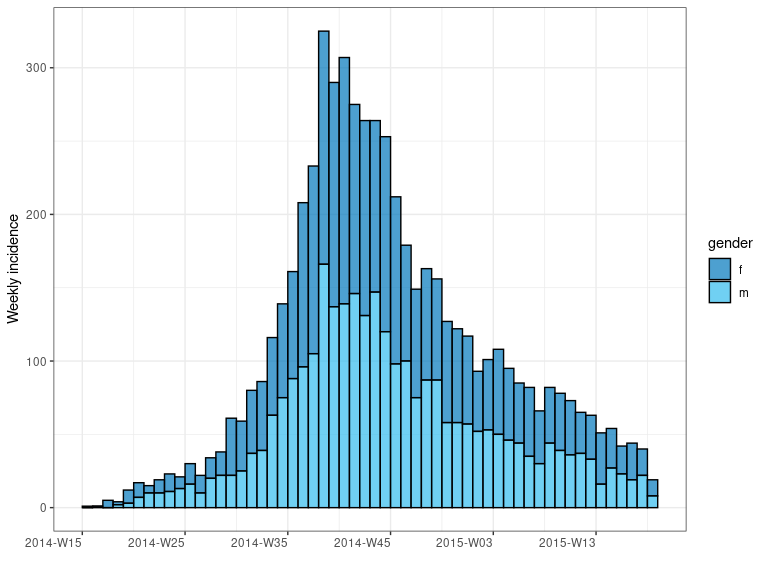
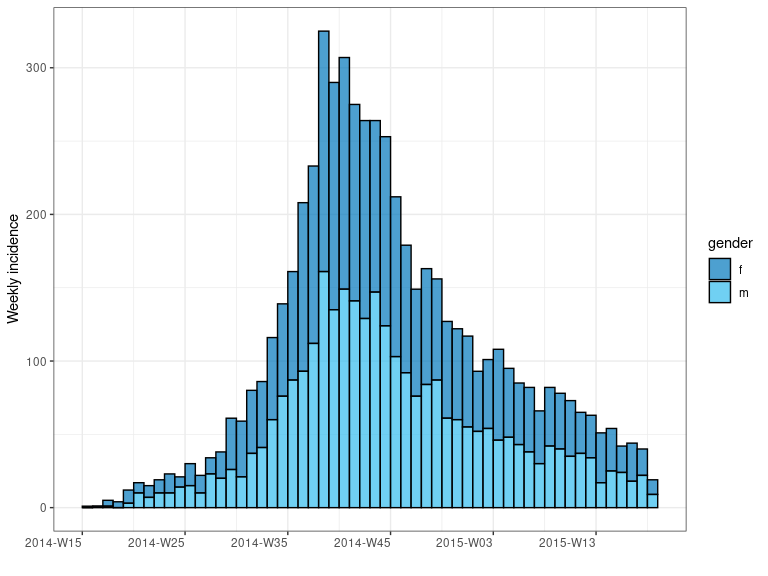
update README

diff --git a/README.md b/README.md
@@ -11,6 +11,8 @@ status](https://www.r-pkg.org/badges/version/incidence2)](https://CRAN.R-project
 [![R build
 status](https://github.com/reconhub/incidence2/workflows/R-CMD-check/badge.svg)](https://github.com/reconhub/incidence2/actions)
 [![codecov](https://codecov.io/gh/reconhub/incidence2/branch/master/graph/badge.svg)](https://codecov.io/gh/reconhub/incidence2)
+[![Codecov test
+coverage](https://codecov.io/gh/reconhub/incidence2/branch/master/graph/badge.svg)](https://codecov.io/gh/reconhub/incidence2?branch=master)
 <!-- badges: end -->
 
 <br> **<span style="color: red;">Disclaimer</span>**
@@ -51,15 +53,19 @@ The main features of the package include:
     global incidence time series.
 
   - **`cumulate()`**: computes cumulative incidence over time from an
-    `incidence` object.
+    `incidence()` object.
 
-  - **`bootstrap()`**: generates a bootstrapped *incidence()* object by
+  - **`rolling_average`** and **`remove_rolling`**: add or remove a
+    rolling average to/from an `incidence()` object.
+
+  - **`bootstrap()`**: generates a bootstrapped `incidence()` object by
     re-sampling, with replacement, the original dates of events.
 
   - **`find_peak()`**: locates the peak time of the epicurve.
 
   - **`estimate_peak()`**: uses bootstrap to estimate the peak time (and
-    related confidence interval) of a partially observed outbreak.
+    related confidence interval) of a partially observed outbreak. We
+    can use **`tidy()`** to generate nicer looking output.
 
   - **`print()`** and **`summary()`** functions.
 
@@ -157,26 +163,26 @@ We compute the weekly incidence:
 ``` r
 i_7 <- incidence(dat, date_index = date_of_onset, interval = 7)
 i_7
-#> An incidence object: 56 x 3
+#> An incidence object: 56 x 2
 #> [5829 cases from days 2014-04-07 to 2015-04-27]
 #> [interval: 7 days]
 #> [cumulative: FALSE]
 #> 
-#>    bin_date   week_group count
-#>    <date>     <aweek>    <int>
-#>  1 2014-04-07 2014-W15       1
-#>  2 2014-04-14 2014-W16       1
-#>  3 2014-04-21 2014-W17       5
-#>  4 2014-04-28 2014-W18       4
-#>  5 2014-05-05 2014-W19      12
-#>  6 2014-05-12 2014-W20      17
-#>  7 2014-05-19 2014-W21      15
-#>  8 2014-05-26 2014-W22      19
-#>  9 2014-06-02 2014-W23      23
-#> 10 2014-06-09 2014-W24      21
+#>    bin_date   count
+#>    <date>     <int>
+#>  1 2014-04-07     1
+#>  2 2014-04-14     1
+#>  3 2014-04-21     5
+#>  4 2014-04-28     4
+#>  5 2014-05-05    12
+#>  6 2014-05-12    17
+#>  7 2014-05-19    15
+#>  8 2014-05-26    19
+#>  9 2014-06-02    23
+#> 10 2014-06-09    21
 #> # … with 46 more rows
 summary(i_7)
-#> An incidence object: 56 x 3
+#> An incidence object: 56 x 2
 #> 5829 cases from days 2014-04-07 to 2015-04-27
 #> interval: 7 days
 #> cumulative: FALSE
@@ -205,10 +211,10 @@ i_7_sex
 #>  2 2014-04-07 2014-W15   m          0
 #>  3 2014-04-14 2014-W16   f          0
 #>  4 2014-04-14 2014-W16   m          1
-#>  5 2014-04-21 2014-W17   f          5
-#>  6 2014-04-21 2014-W17   m          0
-#>  7 2014-04-28 2014-W18   f          2
-#>  8 2014-04-28 2014-W18   m          2
+#>  5 2014-04-21 2014-W17   f          4
+#>  6 2014-04-21 2014-W17   m          1
+#>  7 2014-04-28 2014-W18   f          4
+#>  8 2014-04-28 2014-W18   m          0
 #>  9 2014-05-05 2014-W19   f          9
 #> 10 2014-05-05 2014-W19   m          3
 #> # … with 102 more rows
@@ -255,16 +261,16 @@ i_7_sh
 #> 
 #>    bin_date   week_group gender hospital                                   count
 #>    <date>     <aweek>    <fct>  <fct>                                      <int>
-#>  1 2014-04-07 2014-W15   f      Military Hospital                              1
-#>  2 2014-04-07 2014-W15   m      Military Hospital                              0
-#>  3 2014-04-07 2014-W15   f      Connaught Hospital                             0
-#>  4 2014-04-07 2014-W15   m      Connaught Hospital                             0
+#>  1 2014-04-07 2014-W15   f      Connaught Hospital                             0
+#>  2 2014-04-07 2014-W15   m      Connaught Hospital                             0
+#>  3 2014-04-07 2014-W15   f      Military Hospital                              1
+#>  4 2014-04-07 2014-W15   m      Military Hospital                              0
 #>  5 2014-04-07 2014-W15   f      other                                          0
 #>  6 2014-04-07 2014-W15   m      other                                          0
-#>  7 2014-04-07 2014-W15   f      <NA>                                           0
-#>  8 2014-04-07 2014-W15   m      <NA>                                           0
-#>  9 2014-04-07 2014-W15   f      Princess Christian Maternity Hospital (PC…     0
-#> 10 2014-04-07 2014-W15   m      Princess Christian Maternity Hospital (PC…     0
+#>  7 2014-04-07 2014-W15   f      Princess Christian Maternity Hospital (PC…     0
+#>  8 2014-04-07 2014-W15   m      Princess Christian Maternity Hospital (PC…     0
+#>  9 2014-04-07 2014-W15   f      Rokupa Hospital                                0
+#> 10 2014-04-07 2014-W15   m      Rokupa Hospital                                0
 #> # … with 662 more rows
 i_7_sh %>% summary()
 #> An incidence object: 672 x 5
